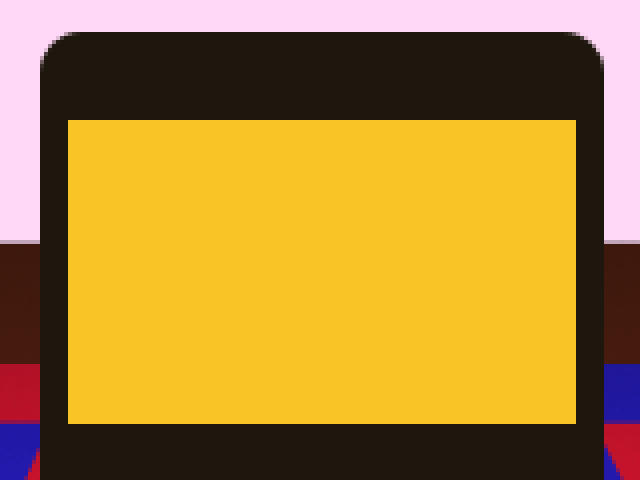
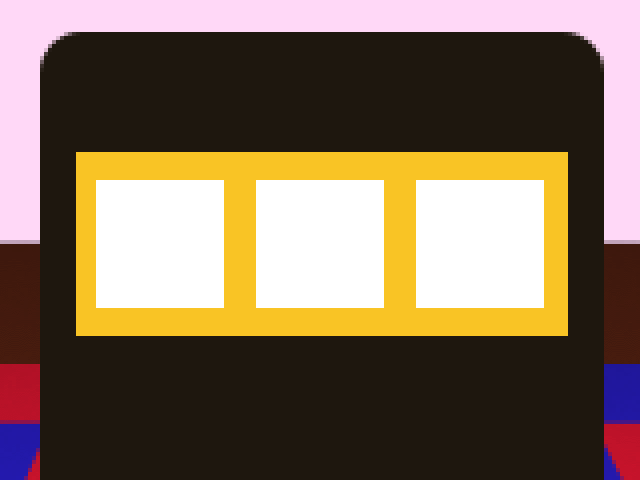
added different bet amounts

diff --git a/slots.js b/slots.js
@@ -10,6 +10,7 @@ var slotOne = 0;
 var slotTwo = 0;
 var slotThree = 0;
 var frameCount = 0;
+var bet = 0;
 
 // called each frame in the slots view
 function slotsUpdate(){
@@ -23,12 +24,16 @@ function slotsUpdate(){
   }
   let x = payoutRemaining % 10;
   if(!(x==3 || x==4 || x==5)) ctx.fillText("Coins: " + coins, 4, 4); //blink coins text if there is still payout remaining
-  if(reelsSpinning > 2) ctx.drawImage(images.spin[spinFrame], 90, 180);
-  else ctx.drawImage(images.cats[slotOne][Math.floor(frameCount/5)], 90, 180);
-  if(reelsSpinning > 1) ctx.drawImage(images.spin[(spinFrame+4)%15], 250, 180);
-  else ctx.drawImage(images.cats[slotTwo][Math.floor(frameCount/5)], 250, 180);
-  if(reelsSpinning > 0) ctx.drawImage(images.spin[(spinFrame+8)%15], 410, 180);
-  else ctx.drawImage(images.cats[slotThree][Math.floor(frameCount/5)], 410, 180);
+  if(reelsSpinning > 2) ctx.drawImage(images.spin[spinFrame], 96, 180);
+  else ctx.drawImage(images.cats[slotOne][Math.floor(frameCount/5)], 96, 180);
+  if(reelsSpinning > 1) ctx.drawImage(images.spin[(spinFrame+4)%15], 256, 180);
+  else ctx.drawImage(images.cats[slotTwo][Math.floor(frameCount/5)], 256, 180);
+  if(reelsSpinning > 0) ctx.drawImage(images.spin[(spinFrame+8)%15], 416, 180);
+  else ctx.drawImage(images.cats[slotThree][Math.floor(frameCount/5)], 416, 180);
+
+  ctx.drawImage(images.five, 144, 380);
+  ctx.drawImage(images.ten, 304, 380);
+  ctx.drawImage(images.twentyfive, 464, 380);
 }
 
 // called when the mouse is moved
@@ -41,7 +46,24 @@ function slotsMouseMoved(event){
 function slotsMousePressed(event){
   whichPic = parseInt(Math.random()*9);
   if(reelsSpinning == 0){ //if this is a new spin
-    if(coins >= 10) coins -= 10;
+    if(mouseY >= 380 && mouseY <= 402){
+      if(mouseX >= 144 && mouseX <= 176){
+        if(coins >= 5){
+          coins -= 5;
+          bet = 5;
+        } else return;
+      } else if(mouseX >= 256 && mouseX <= 388){
+        if(coins >= 10){
+          coins -= 10;
+          bet = 10;
+        } else return;
+      } else if(mouseX >= 464 && mouseX <= 496){
+        if(coins >= 25){
+          coins -= 25;
+          bet = 25;
+        } else return;
+      } else return;
+    }
     else return;
   }
   reelsSpinning = (reelsSpinning + 3) % 4 // stop a reel, or spin them all

diff --git a/game.js b/game.js
@@ -44,12 +44,14 @@ function init(){
   for(let i=0;i<15;i++){
     images.spin.push(createImage("spin/"+i+".png"));
   }
-  images.symbol = createImage("filler_symbol.png");
+  images.five = createImage("5.png");
+  images.ten = createImage("10.png");
+  images.twentyfive = createImage("25.png")
   images.cats = [];
   for (var i = 0; i <9; i++) {
-     images.cats[i] = [4]
+     images.cats[i] = [];
      for (var j = 1; j <= 4; j++) {
        images.cats[i][j-1] = createImage("cats/0"+i+"/sprite_"+j+".png");
      };
-   }; 
+   };
 }
